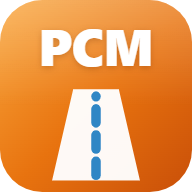
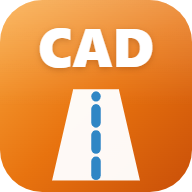
Add files via upload

Changed region(s): [[0.1875, 0.125, 0.8125, 0.375], [0.4375, 0.125, 0.4688, 0.1562]]

diff --git a/index.html b/index.html
@@ -2,7 +2,7 @@
 <html lang="fr">
 <head>
 <meta charset="UTF-8">
-<title>PCM-CAD — Notes de chantier VRD</title>
+<title>abraCADabra — Notes de chantier VRD</title>
 <meta name="viewport" content="width=device-width, initial-scale=1, maximum-scale=1, user-scalable=no">
 <meta name="theme-color" content="#F4F1EA" media="(prefers-color-scheme: light)">
 <meta name="theme-color" content="#14110E" media="(prefers-color-scheme: dark)">
@@ -129,20 +129,37 @@
   /* verrouillé : page de marque plein écran, aucun nom de chantier visible */
   body.locked header.top{display:none}
   .brand{display:flex; flex-direction:column; align-items:center; gap:2px; margin-bottom:22px}
-  .brand-org{
-    font-size:12.5px; font-weight:800; letter-spacing:.16em; text-transform:uppercase;
-    color:var(--blue); text-align:center; line-height:1.3;
-  }
+  /* logotype : « abra » en serif clair, « CAD » en capitales dégradées — le jeu de mots devient visuel */
   .brand-app{
-    font-size:40px; font-weight:900; letter-spacing:.01em; line-height:1;
-    color:var(--accent);
+    display:flex; align-items:baseline; justify-content:center;
+    line-height:1; white-space:nowrap;
   }
-  .brand-rule{width:52px; height:3px; border-radius:99px; margin-top:8px;
-    background:linear-gradient(90deg, var(--accent), var(--blue))}
-  .brand-by{
+  .brand-app i{
     font-family:Georgia, "Iowan Old Style", "Palatino Linotype", Palatino, serif;
-    font-style:italic; font-size:16px; font-weight:600; letter-spacing:.02em;
-    color:var(--blue-deep); margin-top:9px;
+    font-style:italic; font-weight:400; font-size:clamp(29px, 9.6vw, 38px); letter-spacing:-.01em;
+    color:var(--blue-deep);
+  }
+  .brand-app span{
+    font-family:system-ui, "Segoe UI", Roboto, sans-serif;
+    font-weight:900; font-size:clamp(35px, 11.6vw, 46px); letter-spacing:.02em; margin:0 .04em;
+    background:linear-gradient(160deg,#FFB454 0%,#F07E1A 45%,#D4560A 100%);
+    -webkit-background-clip:text; background-clip:text; color:transparent;
+    filter:drop-shadow(0 3px 10px rgba(217,106,11,.34));
+  }
+  @supports not ((-webkit-background-clip:text) or (background-clip:text)){
+    .brand-app span{color:var(--accent); filter:none}
+  }
+  .brand-rule{width:64px; height:3px; border-radius:99px; margin-top:12px;
+    background:linear-gradient(90deg, var(--accent), var(--blue))}
+  .brand-tag{
+    font-family:Georgia, "Iowan Old Style", "Palatino Linotype", Palatino, serif;
+    font-style:italic; font-size:14.5px; line-height:1.45; text-align:center;
+    color:var(--ink2); margin-top:11px; max-width:30ch;
+  }
+  .brand-seal{
+    margin-top:9px; font-size:10.5px; font-weight:800; letter-spacing:.13em; text-transform:uppercase;
+    color:var(--blue-deep); background:var(--blue-soft); border:1px solid var(--blue-line);
+    border-radius:99px; padding:5px 13px;
   }
   .lockbox h1{font-size:20px; margin:4px 0 0; letter-spacing:-.01em}
   .lockbox p{color:var(--ink); font-weight:500; margin:2px 0 14px; max-width:34ch}
@@ -432,10 +449,10 @@
   <div class="wrap">
     <div class="lockbox">
       <div class="brand">
-        <div class="brand-org">PCM Aménagement Urbain</div>
-        <div class="brand-app">PCM-CAD</div>
+        <div class="brand-app"><i>abra</i><span>CAD</span><i>abra</i></div>
         <div class="brand-rule"></div>
-        <div class="brand-by">by Édouard Vigier</div>
+        <div class="brand-tag">Taillé pour satelliser le problème<br>et plier le jeu</div>
+        <div class="brand-seal">Garantie anti-boulette</div>
       </div>
       <div class="glyph">🔒</div>
       <p id="lockText">Saisissez votre code pour ouvrir le carnet. Les données restent uniquement sur ce téléphone.</p>
@@ -565,17 +582,18 @@
       </div>
     </div>
 
+    <!-- saisie au clavier uniquement : les valeurs mémorisées restent proposées en autocomplétion
+         (liste déroulante du champ), sans encombrer l'écran de pastilles -->
     <div class="field">
       <label for="fZone">Localisation / zone</label>
       <input type="text" id="fZone" list="zonesList" placeholder="Ex. : Carrefour av. du Château / av. de Paris">
       <datalist id="zonesList"></datalist>
-      <div class="chips" id="zoneChips" style="margin-top:7px"></div>
     </div>
 
     <div class="field">
       <label for="fEnt">Entreprise / lot concerné</label>
-      <input type="text" id="fEnt" placeholder="Ex. : Colas (mandataire)">
-      <div class="chips" id="entChips" style="margin-top:7px"></div>
+      <input type="text" id="fEnt" list="entsList3" placeholder="Ex. : Colas (mandataire)">
+      <datalist id="entsList3"></datalist>
     </div>
 
     <div class="field">
@@ -1197,50 +1215,66 @@ async function renderAnnexeList(){
 
 /* =============== base locale (IndexedDB) =============== */
 let db;
-const DB_STORES = ["visits","photos","inbox","projects","reserves","annexes","controls"];
-/* Ouvre la base, puis vérifie que tous les magasins existent. Si une montée de version a été
-   interrompue ou incomplète, on rouvre en version+1 pour créer ce qui manque plutôt que de planter. */
+/* Schéma attendu : magasin → index. Sert à la création ET au diagnostic de réparation. */
+const DB_SCHEMA = {
+  visits:   ["date"],
+  photos:   ["visitId"],
+  inbox:    [],
+  projects: [],
+  reserves: ["projectId"],
+  annexes:  ["projectId"],
+  controls: ["projectId","visitId"]
+};
+const DB_VERSION = 5;
+/* Ouvre la base puis vérifie magasins ET index. Une montée de version interrompue laissait
+   l'application inutilisable ; on rouvre alors en version+1 pour compléter ce qui manque. */
 async function openDB(){
+  // 1) ouverture sans numéro : on prend la version réellement présente sur l'appareil.
+  //    (Demander une version inférieure à l'existante lève une VersionError et bloquait tout
+  //     l'application après un retour à une version antérieure.)
   let d = await openDBVersion();
-  const manquants = DB_STORES.filter(s => !d.objectStoreNames.contains(s));
-  if (manquants.length){
+  // 2) montée de version si le code est plus récent que la base
+  if (d.version < DB_VERSION){
+    d.close();
+    d = await openDBVersion(DB_VERSION);
+  }
+  // 3) filet : magasin ou index manquant après une migration interrompue
+  if (dbIncomplet(d)){
     const v = d.version + 1;
     d.close();
     d = await openDBVersion(v);
   }
   return d;
 }
+function dbIncomplet(d){
+  for (const s in DB_SCHEMA){
+    if (!d.objectStoreNames.contains(s)) return true;
+  }
+  // vérification des index : nécessite une transaction de lecture
+  try{
+    const noms = Object.keys(DB_SCHEMA);
+    const t = d.transaction(noms, "readonly");
+    for (const s of noms){
+      const os = t.objectStore(s);
+      for (const idx of DB_SCHEMA[s]) if (!os.indexNames.contains(idx)) return true;
+    }
+    t.abort();
+  }catch{ return true; }
+  return false;
+}
 function openDBVersion(version){
   return new Promise((res, rej) => {
-    const rq = version ? indexedDB.open("chantier-notes", version) : indexedDB.open("chantier-notes", 5);
+    // sans argument : ouvre la version existante, quelle qu'elle soit
+    const rq = version ? indexedDB.open("chantier-notes", version) : indexedDB.open("chantier-notes");
     rq.onupgradeneeded = e => {
-      const d = e.target.result;
-      if (!d.objectStoreNames.contains("visits")){
-        const v = d.createObjectStore("visits", {keyPath:"id", autoIncrement:true});
-        v.createIndex("date","date");
-      }
-      if (!d.objectStoreNames.contains("photos")){
-        const p = d.createObjectStore("photos", {keyPath:"id", autoIncrement:true});
-        p.createIndex("visitId","visitId");
-      }
-      if (!d.objectStoreNames.contains("inbox")){
-        d.createObjectStore("inbox", {keyPath:"id", autoIncrement:true});
-      }
-      if (!d.objectStoreNames.contains("projects")){
-        d.createObjectStore("projects", {keyPath:"id", autoIncrement:true});
-      }
-      if (!d.objectStoreNames.contains("reserves")){
-        const r = d.createObjectStore("reserves", {keyPath:"id", autoIncrement:true});
-        r.createIndex("projectId","projectId");
-      }
-      if (!d.objectStoreNames.contains("annexes")){
-        const a = d.createObjectStore("annexes", {keyPath:"id", autoIncrement:true});
-        a.createIndex("projectId","projectId");
-      }
-      if (!d.objectStoreNames.contains("controls")){
-        const c = d.createObjectStore("controls", {keyPath:"id", autoIncrement:true});
-        c.createIndex("projectId","projectId");
-        c.createIndex("visitId","visitId");
+      const d = e.target.result, t = e.target.transaction;
+      for (const s in DB_SCHEMA){
+        const os = d.objectStoreNames.contains(s)
+          ? t.objectStore(s)
+          : d.createObjectStore(s, {keyPath:"id", autoIncrement:true});
+        for (const idx of DB_SCHEMA[s]){
+          if (!os.indexNames.contains(idx)) os.createIndex(idx, idx);
+        }
       }
     };
     rq.onsuccess = () => res(rq.result);
@@ -1291,8 +1325,18 @@ function tx(store, mode, fn){
 function idbAll(store, indexName, key){
   return new Promise((res, rej) => {
     const t = db.transaction(store, "readonly");
-    let src = t.objectStore(store);
-    if (indexName) src = src.index(indexName);
+    const os = t.objectStore(store);
+    let src = os;
+    // index absent (base incomplète) : on retombe sur un balayage complet filtré, plutôt que d'échouer
+    if (indexName){
+      if (os.indexNames.contains(indexName)) src = os.index(indexName);
+      else {
+        const rq0 = os.getAll();
+        rq0.onsuccess = () => res(key === undefined ? rq0.result : rq0.result.filter(x => x && x[indexName] === key));
+        rq0.onerror = () => rej(rq0.error);
+        return;
+      }
+    }
     const rq = key !== undefined ? src.getAll(key) : src.getAll();
     rq.onsuccess = () => res(rq.result);
     rq.onerror = () => rej(rq.error);
@@ -1931,7 +1975,10 @@ async function openCtrl(){
         <span class="cc-verdict wip">Ouvrir</span></button>`).join("") + `</div>`;
   }).join("");
   box.querySelectorAll("[data-tpl]").forEach(b =>
-    b.addEventListener("click", () => newCtrl(b.dataset.tpl)));
+    b.addEventListener("click", async () => {
+      try{ await newCtrl(b.dataset.tpl); }
+      catch(err){ toast("Impossible d'ouvrir la fiche : " + (err && err.message || err), true); }
+    }));
   $("#ctrlModal").classList.add("on");
   window.scrollTo(0,0);
 }
@@ -1949,8 +1996,10 @@ async function renderCtrlList(){
   }).join("");
   list.querySelectorAll("[data-id]").forEach(b =>
     b.addEventListener("click", async () => {
-      const f = (await visitControls(curVisit.id)).find(x => x.id === Number(b.dataset.id));
-      if (f) openCtrlForm(f);
+      try{
+        const f = (await visitControls(curVisit.id)).find(x => x.id === Number(b.dataset.id));
+        if (f) openCtrlForm(f);
+      }catch(err){ toast("Ouverture impossible : " + (err && err.message || err), true); }
     }));
 }
 async function newCtrl(tplId){
@@ -2510,15 +2559,11 @@ function pasteComment(){
   $("#fEcheance").value = c.dateLimite || "";
   toast("Commentaire collé — relisez puis Enregistrer");
 }
+/* alimente uniquement l'autocomplétion des champs (aucune pastille affichée) */
 function buildQuickChips(){
   const s = getSettings();
   $("#zonesList").innerHTML = s.zones.map(z => `<option value="${esc(z)}">`).join("");
-  $("#zoneChips").innerHTML = s.zones.slice(0,7).map(z => `<button class="chip">${esc(z)}</button>`).join("");
-  $("#zoneChips").querySelectorAll(".chip").forEach(c =>
-    c.addEventListener("click", () => { $("#fZone").value = c.textContent; }));
-  $("#entChips").innerHTML = s.ents.map(z => `<button class="chip">${esc(z)}</button>`).join("");
-  $("#entChips").querySelectorAll(".chip").forEach(c =>
-    c.addEventListener("click", () => { $("#fEnt").value = c.textContent; }));
+  $("#entsList3").innerHTML = s.ents.map(z => `<option value="${esc(z)}">`).join("");
 }
 async function saveEdit(){
   if (!curEdit) return;
@@ -3059,7 +3104,7 @@ async function pdfForVisit(visit, photos, settings){
     lx += 30 + lib.length * 4.4 + 20;
   }
   y -= 22;
-  cur.texts.push({x:40, y, size:FS.caption, font:"F1", color:PDF_GREY, text:"Rapport généré par PCM-CAD (PCM Aménagement Urbain), à vérifier avant diffusion."});
+  cur.texts.push({x:40, y, size:FS.caption, font:"F1", color:PDF_GREY, text:"Rapport généré par abraCADabra, à vérifier avant diffusion."});
   y -= 14;
 
   /* ---- plan de situation (chargé, sinon généré automatiquement depuis le GPS) ---- */
@@ -3604,7 +3649,7 @@ async function docxForVisit(visit, photos, settings){
   body.push(`<w:tbl><w:tblPr><w:tblW w:w="9640" w:type="dxa"/>${TBL_BORDERS}<w:tblLayout w:type="fixed"/></w:tblPr><w:tblGrid>${"<w:gridCol w:w=\"1928\"/>".repeat(5)}</w:tblGrid><w:tr>${wTc(9640, wP(wR("IDENTIFICATION & MÉTÉO", `<w:b/><w:color w:val="${DOCX_NAVY}"/><w:sz w:val="18"/>`), `<w:spacing w:after="0"/>`), {span:5, fill:DOCX_BAND})}</w:tr>${idHead}${idRow}</w:tbl>`);
   body.push(wP("", `<w:spacing w:after="80"/>`));
 
-  body.push(wP(wR("Rapport généré par PCM-CAD (PCM Aménagement Urbain), à vérifier avant diffusion.", `<w:color w:val="${DOCX_GREY}"/><w:sz w:val="16"/>`), `<w:spacing w:before="120"/>`));
+  body.push(wP(wR("Rapport généré par abraCADabra, à vérifier avant diffusion.", `<w:color w:val="${DOCX_GREY}"/><w:sz w:val="16"/>`), `<w:spacing w:before="120"/>`));
   body.push(`<w:p><w:r><w:br w:type="page"/></w:r></w:p>`);
 
   /* ---- constats par zones automatiques (GPS ± 10 m) ---- */
@@ -3955,7 +4000,7 @@ async function fullBackup(){
       currentProjectId: CUR ? CUR.id : null, projects, visits, reserves, controls, annexes, photos: photoData };
     const blob = new Blob([JSON.stringify(data)], {type:"application/json"});
     const d = todayIso();
-    const r = await saveFileChooseLocation(blob, `sauvegarde-chantiers-${d}.json`, "Sauvegarde PCM-CAD");
+    const r = await saveFileChooseLocation(blob, `sauvegarde-chantiers-${d}.json`, "Sauvegarde abraCADabra");
     const mo = (blob.size/1048576).toFixed(1);
     toast(r === "saved" ? `Sauvegarde enregistrée ✔ (${mo} Mo)` :
           r === "shared" ? `Sauvegarde partagée ✔ (${mo} Mo)` :
@@ -4190,10 +4235,16 @@ async function main(){
   $("#btnMoyensClose").addEventListener("click", () => { stopMic(); $("#moyensModal").classList.remove("on"); });
   $("#btnMoyensAdd").addEventListener("click", addMoyenRow);
   $("#btnMoyensSave").addEventListener("click", saveMoyens);
-  $("#btnCtrl").addEventListener("click", openCtrl);
+  $("#btnCtrl").addEventListener("click", async () => {
+    try{ await openCtrl(); }
+    catch(err){ toast("Fiches de contrôle indisponibles : " + (err && err.message || err), true); }
+  });
   $("#btnCtrlClose").addEventListener("click", () => $("#ctrlModal").classList.remove("on"));
   $("#btnCtrlFormClose").addEventListener("click", () => { closeCtrlForm(); openCtrl(); });
-  $("#btnCtrlSave").addEventListener("click", saveCtrlForm);
+  $("#btnCtrlSave").addEventListener("click", async () => {
+    try{ await saveCtrlForm(); }
+    catch(err){ toast("Enregistrement impossible : " + (err && err.message || err), true); }
+  });
   $("#btnCtrlDelete").addEventListener("click", deleteCtrlForm);
   $("#btnRegBack").addEventListener("click", showHome);
   $("#btnRegAdd").addEventListener("click", () => openReserveForm(null));

diff --git a/sw.js b/sw.js
@@ -1,6 +1,6 @@
 /* Service worker — cache hors-ligne + réception des photos partagées depuis la galerie */
-/* Application version 3.0 (révision 2 : PCM-CAD, solde depuis constat, avant/après) */
-const CACHE = "chantier-v28";
+/* abraCADabra — application version 3.0 */
+const CACHE = "chantier-v30";
 const CORE = ["./", "./index.html", "./manifest.webmanifest", "./icon-192.png", "./icon-512.png", "./icon-maskable.png", "./fond-plan.jpg"];
 
 self.addEventListener("install", e => {
